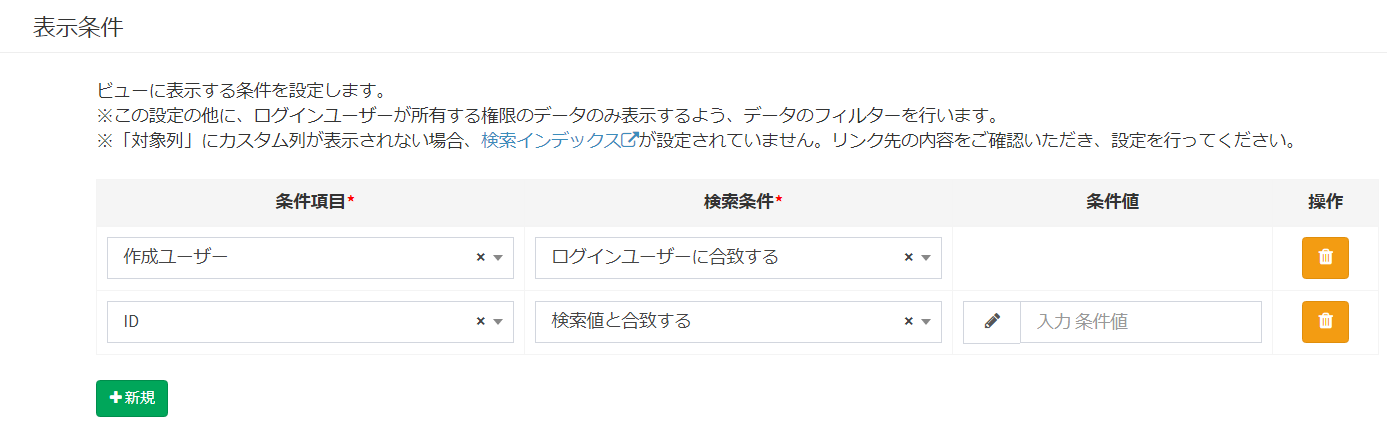
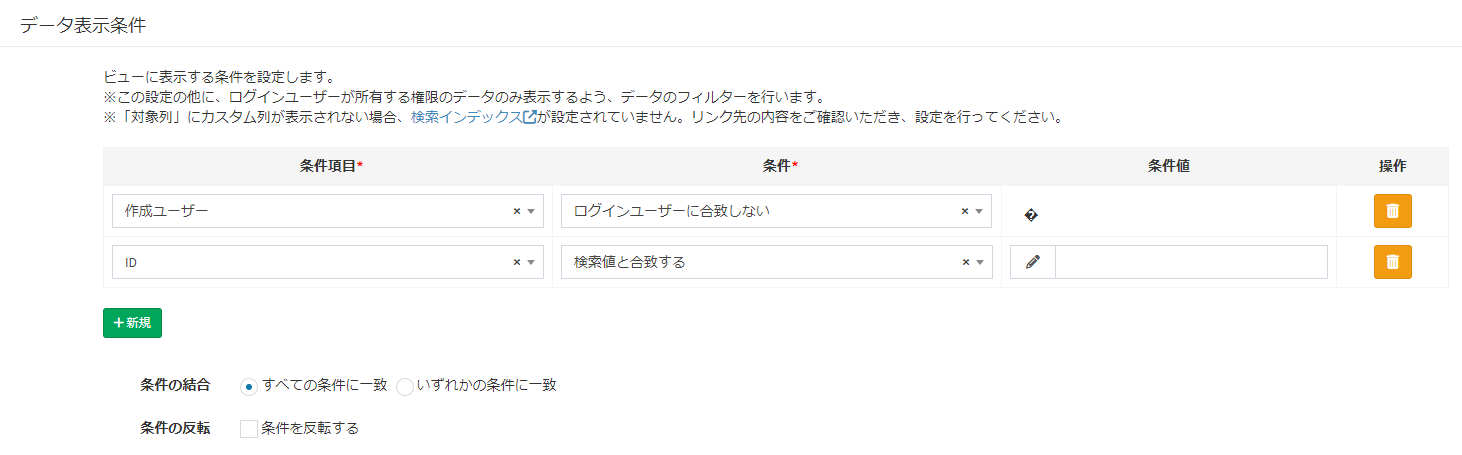
v6.0.2 Modify 04.12

diff --git a/docs/ja/view.md b/docs/ja/view.md
@@ -117,7 +117,7 @@ Exmentの[データ一覧画面](/ja/data_grid.md)に表示する、列や絞り
 ##### 対象列　　
 絞り込み条件に使用する列です。  
   
-##### 検索条件　　
+##### 条件
 条件の内容を選択します。  
 詳細は、[検索条件について](/ja/view.md?id=検索条件について)をご確認ください。  
 
@@ -129,6 +129,15 @@ Exmentの[データ一覧画面](/ja/data_grid.md)に表示する、列や絞り
   
 ##### ［新規］ボタン　　
 ビューの表示条件を新規追加します。
+
+#####   条件の結合
+「すべての条件に一致」を選択する場合は、全ての条件に一致するデータを表示します。  
+「いずれかの条件に一致」を選択する場合は、いずれかの条件に一致するデータを表示します。
+
+#####   条件の反転
+「条件を反転する」をチェックオンする場合は、条件に一致しないデータを表示します。  
+「条件を反転する」をチェックオンしない場合は、条件に一致するデータを表示します。  
+※集計ビューのみは表示条件反転機能の対象外です。
 
 #### 検索条件について
 「対象列」で選択した内容の種類（「日付」「ユーザー」など）によって、選択肢の項目は変更されます。  

diff --git a/docs/view.md b/docs/view.md
@@ -102,7 +102,7 @@ Add a condition when you want to narrow down the displayed content, such as disp
 - Target column:  
 A column used for the narrowing condition.
 
-- Search condition:  
+- Condition:  
 Select the content of the condition.  
 For details, please refer to [Search conditions](/view.md?id=About-search-conditions).
 
@@ -114,6 +114,15 @@ Delete the display condition of the view.
 
 - "New" button:  
 Adds a new view display condition.
+
+- Condition Join:  
+If you select "Match All Condition", data that matches all conditions will be displayed.  
+If you select "Match Any Condition", data that matches any of the conditions will be displayed.
+
+- Condition Reverse:  
+If you check "Reverse condition", data that does not match the conditions will be displayed.  
+If you do not check "Reverse condition", data that matches the conditions will be displayed.  
+※ Only the summary view is not eligible for the display condition reversal function.
 
 #### About search conditions
 Depending on the type of content selected in the "Target Column" ("Date", "User", etc.), the options will change.  

diff --git a/docs/ja/plugin_quickstart_validate.md b/docs/ja/plugin_quickstart_validate.md
@@ -1,5 +1,5 @@
 # プラグイン(バリデーション)
-カスタムテーブルを保存する際に独自のバリデーションを実行することができます。  
+カスタムテーブルを保存する時と、カスタムデータを削除する時に、独自のバリデーションを実行することができます。  
 文字種のチェックや桁数のチェックはカスタム列の設定で実装することが可能ですが、より複雑なチェックや項目間の関連チェックを実装したい場合は、このプラグインの使用をおすすめします。
 
 ![バリデーション実装例](img/plugin/plugin_validate1.png)   
@@ -73,6 +73,10 @@ class Plugin extends PluginValidatorBase
         // api : API
         // import : データインポート
         // null : それ以外(他のプラグインなど)
+    }
+
+    public function validateDestroy($custom_value)
+    {
     }
 }
 ~~~

diff --git a/docs/ja/plugin_reference.md b/docs/ja/plugin_reference.md
@@ -531,6 +531,26 @@ jsファイルのパスを取得する関数です。
 | ---- | ---- |
 | boolean | バリデーションの結果（true：正常、false：エラーあり） |
 
+#### validateDestroy
+カスタムデータ削除前に、バリデーションを実行します。実行したい処理は、こちらの関数内に記載してください。
+
+##### 引数
+| 名前 | 種類 | 説明 |
+| ---- | ---- | ---- |
+| $custom_value | CustomValue | カスタムデータのインスタンス  |
+
+##### 戻り値
+| 種類 | 説明 |
+| ---- | ---- |
+| array | バリデーションの結果とメッセージ（true：正常、false：エラーあり） |
+
+~~~ php
+        [
+            'status'  => false,
+            'message' =>  '重要度が高いデータは削除できません。',
+        ]
+~~~
+
 
 ---
 

diff --git a/docs/plugin_quickstart_event.md b/docs/plugin_quickstart_event.md
@@ -10,6 +10,7 @@ It is executed when a specific operation is performed on the screen of Exment, a
 | loading | At the start of loading | At the beginning of the page load process, the process starts. |
 | saving | Immediately before saving | Immediately before saving the data, the process starts. |
 | saved | After saving | After saving the data, the process starts. |
+| deleted | After deleted | After deleting the data, the process starts. |
 | workflow_action_executing | Immediately before workflow execution | Immediately before workflow execution, the process starts. |
 | workflow_action_executed | After workflow execution | After workflow execution, the process starts. |
 | notify_executing | Immediately before notification execution | Immediately before notification execution, the process starts. |

diff --git a/docs/plugin_quickstart_validate.md b/docs/plugin_quickstart_validate.md
@@ -1,5 +1,5 @@
 # Plugin (validation)
-You can perform your own validation when saving a custom table.  
+You can perform your own validation when saving a custom table and before deleting a custom value.  
 Character type check and digit number check can be implemented by setting custom column, but if you want to implement more complicated check or related check between items, we recommend using this plugin.  
 
 ![validation plugin example](img/plugin/plugin_validate1.png)   
@@ -59,6 +59,10 @@ class Plugin extends PluginValidatorBase
         }
         // return true (normal) as the return value
         return true;
+    }
+
+    public function validateDestroy($custom_value)
+    {
     }
 }
 ~~~

diff --git a/docs/plugin_reference.md b/docs/plugin_reference.md
@@ -510,6 +510,25 @@ None
 | ---- | ---- |
 | boolean | Validation result (true: normal, false: error) |
 
+#### validateDestroy
+Perform validation before delete custom value. Describe the processing you want to execute in this function.
+
+##### argument
+| Name | Type | Description |
+| ---- | ---- | ---- |
+| $custom_value | CustomValue | Instance of custom data  |
+
+##### Return value
+| Type | Description |
+| ---- | ---- |
+| array | Validation result and message (true: normal, false: error) |
+
+~~~ php
+        [
+            'status'  => false,
+            'message' =>  'Data with high importance cannot be deleted.',
+        ]
+~~~
 
 ---  
 
